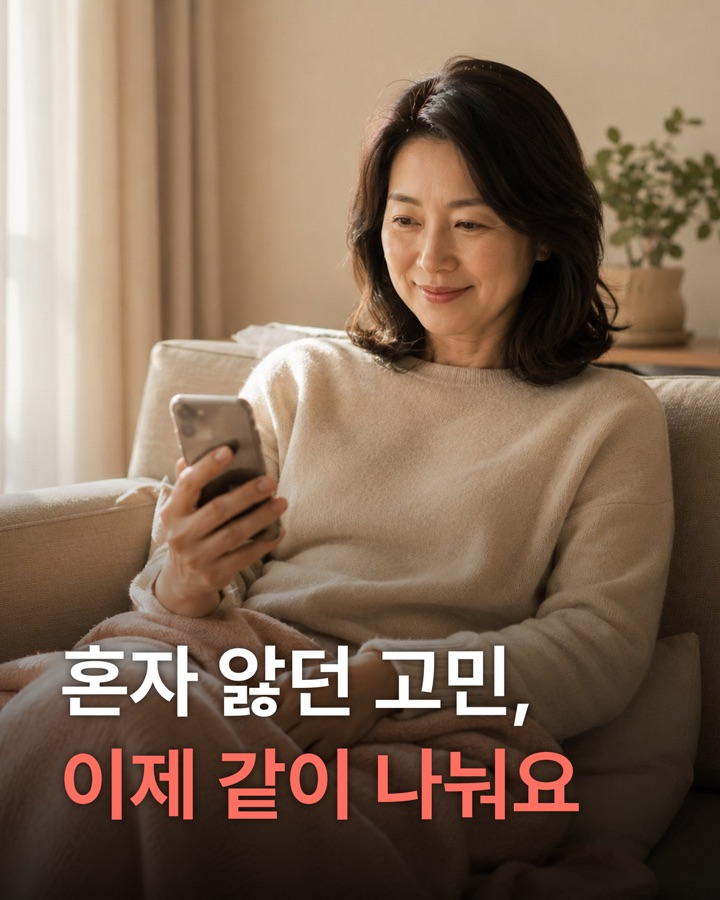
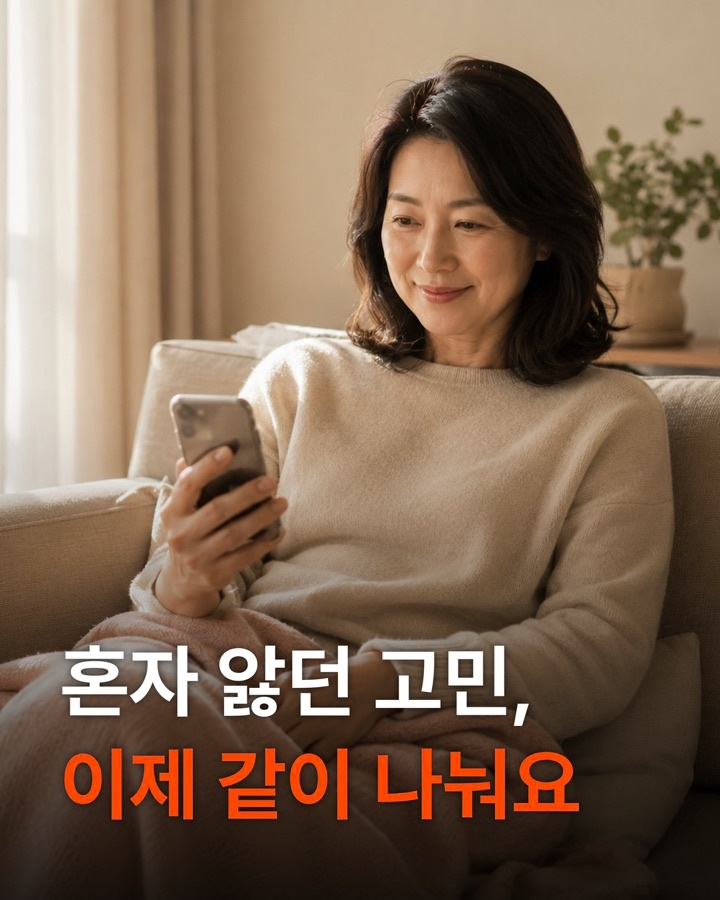
feat(brand): align login slides with warm palette
사진 위에 카피가 픽셀로 구워진 마지막 자산이었다. 사진을 다시 만들지 않고
승인된 시안으로 **강조 글자 색만** 옮긴다.

## 무엇을 바꿨고 무엇을 그대로 뒀나
- 강조 글자: 이전 코랄 → --brand 계열. 이전 코랄 잔존 0
- 그대로: 사진 · 인물 · 배경 · 구도 · 카피 문구 · 글자 위치 · 글자 크기 ·
  흰 글자 · 하단 암부 그라데이션
- LoginOnboarding.tsx · alt · sub 문구 · 이미지 경로 수정 0

## 방법
exact-pixel 치환이 아니라 HSV 에서 색상·채도만 옮기고 명도를 보존했다.
글자 경계의 안티앨리어싱 계조가 그대로 남아 halo·계단이 생기지 않는다.

## 🔴 "사진 영역 변화 0" 이 아니다
마스크 밖은 메모리에서 손대지 않았지만 최종 JPEG 저장에서 재인코딩 오차가 생긴다.
독립 측정한 마스크 밖 PSNR 최저 51.90 dB — 육안으로 식별되는 사진 변화는 없다.
"변화 0%" 로 적지 않는다. 메모리 배열 기준과 최종 파일 기준을 섞으면 사실이 아니다.

## 새 파일 SHA-256
slide-1  4b74aaca279888377bc9d7fb823581c6e4935ca14f1df5291adbf7098a8a8290
slide-2  fd3189ecdd1871fcdad776de9bde8e7c3da28697587cc447bbeae05b3689f355
slide-3  4a195d57e83d645cb4a2c037438995a9acdf7c091dfe9e11878246fe80bb5f95
세 장 모두 720x900 JPEG 유지.

brand-assets 의 replace: true 는 유지한다 — 지금 어긋나 있다는 뜻이 아니라
다음 리브랜딩에서도 사람이 다시 만들어야 한다는 정책값이다.
이 교체로 **새 팔레트와 어긋난 브랜드 자산은 0건**이 됐다.

코드 동작 · 문구 · dependency · DB 변경 0. 카카오 색은 손대지 않았다.

Changed region(s): [[0.5194, 0.8089, 0.7944, 0.9333], [0.3056, 0.8089, 0.4889, 0.9333], [0.0917, 0.8089, 0.275, 0.9333]]

diff --git a/src/lib/brand-assets.ts b/src/lib/brand-assets.ts
@@ -174,15 +174,13 @@ export const BRAND_ASSETS: readonly BrandAsset[] = [
     replace: true,
     locked: false,
     note:
-      '720×900. 🔴 이전 기록("브랜드 요소 없는 사진")은 사실이 아니었다 — ' +
-      '사진 위에 브랜드색 카피가 **픽셀로 구워져 있다.** ' +
-      '웜 모노크롬 전환(2026-09-07) 실측: 채도 높은 주황·빨강 13,309px 의 평균이 ' +
-      '이전 코랄에 가깝고 새 브랜드 주황과 어긋난다. ' +
-      '🔴 수치는 여기 적지 않는다 — 설명문에 색 값을 쓰면 check:tokens 가 잡는다. ' +
-      '(PR 본문과 커밋 메시지에 남겼다. 세 자리 hex 형태라 PR 번호 표기도 함께 걸린다) ' +
-      '카피 색은 코드로 못 고친다 — 사람이 다시 만들어야 한다. ' +
-      '🔴 아이콘 2종이 2026-09-07 교체된 뒤로 **실제로 새 팔레트와 어긋난 채 남은 자산은 ' +
-      '이 로그인 슬라이드 3장뿐이다.**',
+      '720×900. ✅ 2026-09-08 새 팔레트로 **교체 완료.** ' +
+      '사진 위 강조 카피가 픽셀로 구워져 있어 코드로는 못 고치던 자리다 — ' +
+      '사진·인물·배치·카피는 그대로 두고 **강조 글자 색만** 이전 코랄에서 --brand 계열로 옮겼다. ' +
+      '흰 글자는 건드리지 않았다. ' +
+      '🔴 replace 는 true 로 둔다 — 지금 어긋나 있다는 뜻이 아니라 ' +
+      '**다음 리브랜딩에서도 사람이 다시 만들어야 하는 자산**이라는 정책값이다. ' +
+      '🔴 이 파일에는 색 값을 적지 않는다(check:tokens 대상). 토큰명으로만 가리킨다.',
   },
   {
     path: 'public/images/login/soransoran-login-slide-2.jpg',
@@ -191,7 +189,7 @@ export const BRAND_ASSETS: readonly BrandAsset[] = [
     use: '로그인 화면 슬라이드 2',
     replace: true,
     locked: false,
-    note: '슬라이드 1 과 같다 — 브랜드색 카피가 픽셀에 구워져 있어 새 팔레트와 어긋난다.',
+    note: '슬라이드 1 과 같다 — 2026-09-08 강조 글자만 --brand 계열로 교체 완료.',
   },
   {
     path: 'public/images/login/soransoran-login-slide-3.jpg',
@@ -200,7 +198,7 @@ export const BRAND_ASSETS: readonly BrandAsset[] = [
     use: '로그인 화면 슬라이드 3',
     replace: true,
     locked: false,
-    note: '슬라이드 1 과 같다 — 브랜드색 카피가 픽셀에 구워져 있어 새 팔레트와 어긋난다.',
+    note: '슬라이드 1 과 같다 — 2026-09-08 강조 글자만 --brand 계열로 교체 완료.',
   },
   {
     path: 'src/components/features/KakaoSignInButton.tsx',

diff --git a/docs/operations/soransoran-brand-design-spec.md b/docs/operations/soransoran-brand-design-spec.md
@@ -997,6 +997,49 @@ BRAND_NAME_TAIL       뒤 조각
 
 ---
 
+## 3-3. 로그인 슬라이드 — 강조 글자 색 보정 (2026-09-08)
+
+사진 위에 카피가 **픽셀로 구워진** 자산이라 토큰으로 고칠 수 없던 마지막 자리였다.
+사진을 다시 만들지 않고 **강조 글자 색만** 옮겼다.
+
+| 유지 | 바꾼 것 |
+|---|---|
+| 사진 · 인물 · 배경 · 구도 | **강조 글자 색만** — 이전 코랄 → `--brand` 계열 |
+| 카피 문구 · 글자 위치 · 글자 크기 | |
+| 흰 글자 · 하단 암부 그라데이션 | |
+| `LoginOnboarding.tsx` · `alt` · sub 문구 · 이미지 경로 | |
+
+세 장 모두 강조 글자가 같은 y 밴드에 있어 사진과 분리해 다룰 수 있었다.
+**exact-pixel 치환이 아니라** HSV 에서 색상·채도만 옮기고 명도를 보존했다 —
+글자 경계의 안티앨리어싱 계조가 그대로 남아 halo·계단이 생기지 않는다.
+
+#### 교체 결과
+
+| 슬라이드 | 크기 | SHA-256 |
+|---|---|---|
[3 lines of base64/hex data omitted]
+
+이전 코랄 잔존 **0px**, 흰 글자 변화 **0px**.
+
+#### 🔴 "사진 영역 변화 0" 이 아니다 — 정확히 적는다
+
+마스크 밖은 **메모리에서 손대지 않았지만**, 최종 JPEG 로 저장하면서 **재인코딩 오차**가 생긴다.
+독립 측정한 마스크 밖 PSNR 은 이렇다.
+
+```
+slide-1   상단 54.72 dB · 하단 58.69 dB
+slide-2   상단 52.56 dB · 하단 55.04 dB
+slide-3   상단 51.90 dB · 하단 58.87 dB
+```
+
+**최저 51.90 dB.** 즉 마스크 밖에도 JPEG 재인코딩 수준의 미세 변화가 존재하며,
+**육안으로 식별되는 사진 변화는 없다.** 인물·배경·구도·카피·배치는 유지된다.
+"변화 0%" 라고 적지 않는다 — 메모리 배열 기준과 최종 파일 기준을 섞으면 사실이 아니게 된다.
+
+---
+
 ## 4. 카카오 버튼 — 🔴 섞지 않는다
 
 > ✅ **웜 모노크롬 전환(2026-09-07)에서 카카오 색·그림자를 바꾸지 않았다.**
@@ -1218,14 +1261,17 @@ npm run typecheck · lint · build
 | 🔴 **분리 정본을 `brand-name.ts` 로 이동** (`BRAND_NAME_SPLIT_AT` / `HEAD` / `TAIL`) | ✅ 반영 · 2026-09-07 |
 | 🔴 **`global-error` · OG 2곳도 두 색으로 통일** — CSS 밖 보조색 `BRAND.strong` · parity 8쌍 | ✅ 반영 · 2026-09-07 |
 | ✅ **단색 워드마크 잔존** | **0건** |
+| 🔴 **로그인 슬라이드 3장 — 강조 글자만 새 팔레트로 교체** | ✅ 반영 · **2026-09-08 §3-3** |
+| ✅ **새 팔레트와 어긋난 브랜드 자산** | **0건** |
 | 🔴 **`icon.png` · `apple-icon.png` 새 팔레트 자산으로 교체 완료** (32×32 · 180×180) | ✅ 반영 · 2026-09-07 |
-| 🟡 **현재 새 팔레트와 어긋난 stale 자산** | **로그인 슬라이드 3장뿐** |
+| ✅ **현재 새 팔레트와 어긋난 stale 자산** | **0건** (2026-09-08 로그인 슬라이드 교체로 해소) |
 
 > 🔴 **`brand-assets.ts` 의 `replace: true` 를 "지금 어긋나 있다" 로 읽지 않는다.**
 > 그 값은 **다음 리브랜딩에서도 사람이 다시 만들어야 하는 자산**이라는 **정책값**이다 —
 > 글자·색이 픽셀에 구워져 있어 이름이 바뀌면 코드로 고칠 수 없기 때문이다.
-> 아이콘 2종은 `replace: true` 이면서 **이미 새 팔레트로 교체 완료**(2026-09-07)됐고,
-> 지금 실제로 어긋난 채 남은 것은 **로그인 슬라이드 3장뿐**이다.
+> `replace: true` 자산 5건(아이콘 2종 · 로그인 슬라이드 3장)은 **전부 새 팔레트로 교체 완료**다.
+>
+> 🕘 2026-09-07까지는 이 행이 "로그인 슬라이드 3장뿐" 이었다. 그 3장이 마지막 stale 자산이었다.
 | ~~CTA 흰 글씨 대비 예외~~ → **예외 0건** (`--cta-text` `#241E1B` 먹색 4.65:1) | ✅ 해소 · 2026-09-07 |
 | ~~`--brand-ink` 대비 예외 2건~~ → **예외 0건** (큰 글씨 3:1 실제 통과) | ✅ 해소 · 2026-09-07 |
 | ~~`BRAND.background` drift~~ → **`--surface-app` 과 정식 PAIR** | ✅ 해소 · `KNOWN_DRIFT` **0건** |
